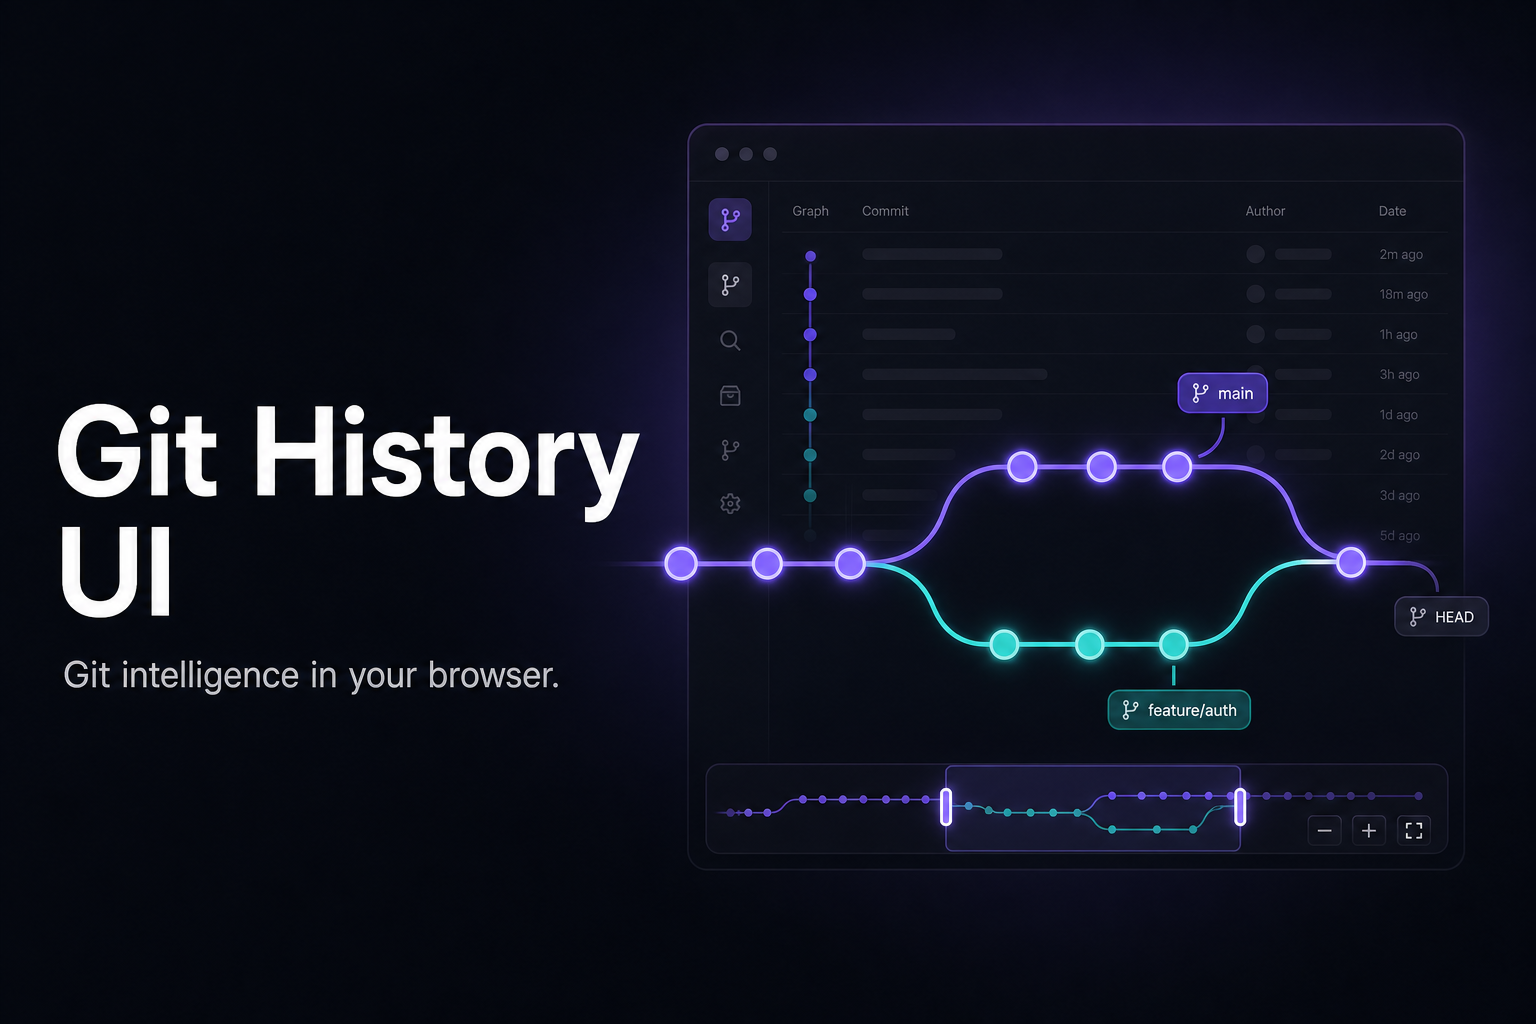
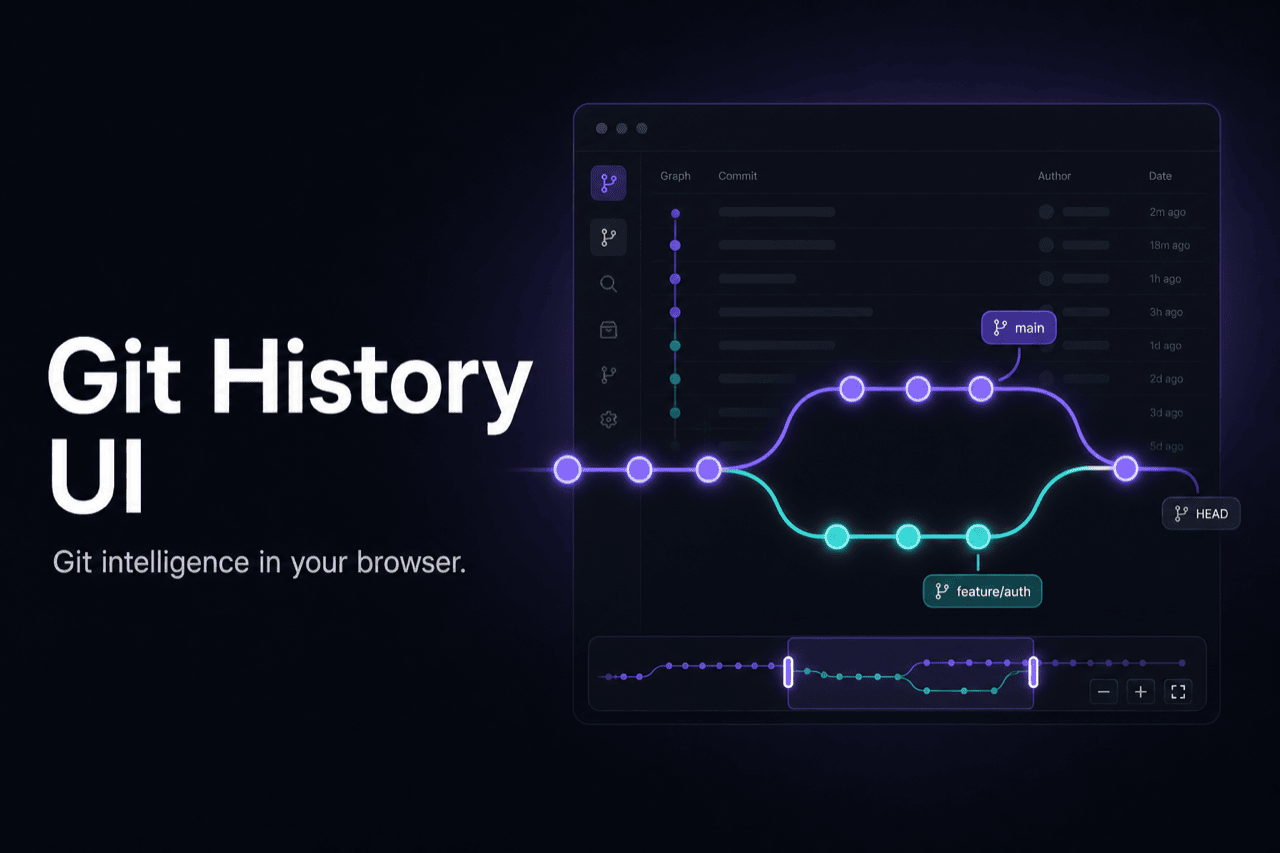
feat: make the project discoverable from the tool itself
The project had 4k monthly npm downloads but 9 GitHub visitors in 14 days,
because nothing in the running app or CLI ever pointed back at the repository
and the only star prompt sat at the bottom of a 420-line README.

Add a repository link to the app toolbar, a line to the CLI startup tips, and
attribution to the terminal Git Wrapped card so people who already use the tool
can find where it lives.

Also reposition the README around what the tool is and why it differs from
git log, gitk, and GitLens, restore the absolute preview image URL so it renders
on npm (the published tarball ships no images), shrink both images from ~1.5 MB
to under 350 KB, and align the stale v5.4.0/v5.4.1 references with the release.

diff --git a/frontend/src/app/components/toolbar/toolbar.component.ts b/frontend/src/app/components/toolbar/toolbar.component.ts
@@ -207,6 +207,22 @@ import { UiStateService } from '../../services/ui-state.service';
             <path fill="currentColor" d="M21 12.79A9 9 0 1 1 11.21 3 7 7 0 0 0 21 12.79Z" />
           </svg>
         </button>
+        <a
+          class="btn btn-ghost star-link"
+          href="https://github.com/beingmartinbmc/git-history-ui"
+          target="_blank"
+          rel="noopener noreferrer"
+          title="Star git-history-ui on GitHub"
+          aria-label="Star git-history-ui on GitHub"
+        >
+          <svg viewBox="0 0 24 24" width="16" height="16" aria-hidden="true">
+            <path
+              fill="currentColor"
+              d="M12 .5C5.73.5.5 5.73.5 12c0 5.08 3.29 9.39 7.86 10.91.58.11.79-.25.79-.56v-1.94c-3.2.7-3.88-1.54-3.88-1.54-.52-1.33-1.28-1.68-1.28-1.68-1.05-.72.08-.7.08-.7 1.16.08 1.77 1.19 1.77 1.19 1.03 1.77 2.7 1.26 3.36.96.1-.75.4-1.26.73-1.55-2.55-.29-5.24-1.28-5.24-5.69 0-1.26.45-2.29 1.19-3.1-.12-.29-.51-1.46.11-3.05 0 0 .97-.31 3.18 1.18a11.1 11.1 0 0 1 5.8 0c2.2-1.49 3.17-1.18 3.17-1.18.63 1.59.24 2.76.12 3.05.74.81 1.19 1.84 1.19 3.1 0 4.42-2.7 5.39-5.26 5.68.42.36.79 1.06.79 2.14v3.17c0 .31.21.68.8.56A11.5 11.5 0 0 0 23.5 12C23.5 5.73 18.27.5 12 .5Z"
+            />
+          </svg>
+          Star
+        </a>
       </div>
     </header>
 
@@ -424,6 +440,13 @@ import { UiStateService } from '../../services/ui-state.service';
         text-transform: uppercase;
         padding: 0.35rem 0.6rem;
       }
+      .star-link {
+        font-size: 11px;
+        letter-spacing: 0.04em;
+        text-transform: uppercase;
+        padding: 0.35rem 0.6rem;
+        text-decoration: none;
+      }
       .clear-filters {
         font-size: 11px;
         color: var(--danger);
@@ -504,6 +527,9 @@ import { UiStateService } from '../../services/ui-state.service';
           order: 5;
         }
         .filters .select {
+          display: none;
+        }
+        .star-link {
           display: none;
         }
       }

diff --git a/src/cli.ts b/src/cli.ts
@@ -16,6 +16,8 @@ const pkg = JSON.parse(readFileSync(join(__dirname, '..', 'package.json'), 'utf8
   version: string;
 };
 
+const REPO_URL = 'https://github.com/beingmartinbmc/git-history-ui';
+
 const program = new Command();
 
 program
@@ -450,7 +452,8 @@ async function main(overrides: Partial<MainOptions> = {}): Promise<void> {
           '  • Press Ctrl+C to stop the server\n' +
           (options.savePreset
             ? `  • Resume this view next time with: git-history-ui --preset ${options.savePreset}\n`
-            : '')
+            : '') +
+          `  • Star it: ${REPO_URL}\n`
       )
     );
   } catch (err) {
@@ -513,5 +516,6 @@ function printWrapped(s: import('./backend/wrapped').WrappedStats): void {
   }
   console.log(line);
   console.log(chalk.gray('  Share it: npx git-history-ui  →  Insights → Wrapped → Export card'));
+  console.log(chalk.gray(`  Made with git-history-ui — ${REPO_URL}`));
   console.log('');
 }

diff --git a/frontend/src/app/components/toolbar/toolbar.component.spec.ts b/frontend/src/app/components/toolbar/toolbar.component.spec.ts
@@ -87,4 +87,16 @@ describe('ToolbarComponent', () => {
 
     expect(state.filters().search).toBeUndefined();
   }));
+
+  it('offers a safely-targeted repository link so the project stays discoverable', () => {
+    fixture.detectChanges();
+
+    const link = fixture.nativeElement.querySelector(
+      'a[href="https://github.com/beingmartinbmc/git-history-ui"]',
+    ) as HTMLAnchorElement | null;
+
+    expect(link).withContext('toolbar must link back to the repository').not.toBeNull();
+    expect(link?.target).toBe('_blank');
+    expect(link?.rel).toContain('noopener');
+  });
 });

diff --git a/apps/chrome-extension/popup.html b/apps/chrome-extension/popup.html
@@ -76,7 +76,7 @@
         >Protocol help</a
       >
       <a
-        href="https://github.com/beingmartinbmc/git-history-ui/blob/v5.4.0/apps/chrome-extension/PRIVACY.md"
+        href="https://github.com/beingmartinbmc/git-history-ui/blob/v5.5.0/apps/chrome-extension/PRIVACY.md"
         target="_blank"
         rel="noopener noreferrer"
         >Privacy</a

diff --git a/README.md b/README.md
@@ -6,22 +6,39 @@
 [![install size](https://packagephobia.com/badge?p=git-history-ui)](https://packagephobia.com/result?p=git-history-ui)
 [![GitHub stars](https://img.shields.io/github/stars/beingmartinbmc/git-history-ui.svg)](https://github.com/beingmartinbmc/git-history-ui)
 
-**Investigate Git history locally, share the result, and automate PR impact.**
-
-```bash
-npx git-history-ui@latest demo
-```
-
-The demo creates a stable, network-free repository in your OS temporary directory.
-
-![Git History UI showing the commit graph, commit list, and split diff viewer](docs/images/preview.png)
-
-To inspect a real project instead:
+**A full Git history explorer in your browser. One command, nothing installed,
+nothing uploaded.**
 
 ```bash
 cd /path/to/your/repository
 npx git-history-ui@latest
 ```
+
+That opens a browser UI with the commit graph, searchable history, side-by-side
+diffs, blame, and per-file history for the repository you are standing in. Press
+Ctrl+C and it's gone — no global install, no account, no cloud service.
+
+![Git History UI showing the commit graph, commit list, and split diff viewer](https://raw.githubusercontent.com/beingmartinbmc/git-history-ui/main/docs/images/preview.png)
+
+Want to look around before pointing it at your own code?
+
+```bash
+npx git-history-ui@latest demo
+```
+
+The demo builds a deterministic, network-free repository in your OS temporary
+directory.
+
+## Why not `git log`, gitk, or GitLens?
+
+- **No editor required.** It's a browser UI, so it behaves identically whether
+  you work in VS Code, JetBrains, Vim, or a terminal on a remote machine.
+- **Nothing to install.** A single `npx` invocation — no extension marketplace,
+  no sign-in, no telemetry, no server you don't run.
+- **It answers questions instead of just listing commits.** Pickaxe search
+  across all of history, work grouped by pull request, hotspots and churn,
+  dependency ripple for a single commit, and a shareable
+  [Git Wrapped](#git-wrapped) recap.
 
 ## Investigate → share → automate
 
@@ -318,7 +335,7 @@ steps:
   - uses: actions/checkout@v4
     with:
       fetch-depth: 0
-  - uses: beingmartinbmc/git-history-ui@v5.4.1
+  - uses: beingmartinbmc/git-history-ui@v5.5.0
     with:
       format: markdown
 ```

diff --git a/CHANGELOG.md b/CHANGELOG.md
@@ -6,6 +6,25 @@ this project adheres to [Semantic Versioning](https://semver.org/spec/v2.0.0.htm
 
 ## [Unreleased]
 
+## [5.5.0] - 2026-07-28
+
+### Added
+
+- A GitHub link in the app toolbar, a repository line in the CLI startup tips,
+  and attribution on the terminal Git Wrapped card, so the project is
+  discoverable from the tool itself rather than only from the README.
+
+### Changed
+
+- The README now leads with what the tool is and how it differs from `git log`,
+  gitk, and GitLens, instead of an abstract capability summary.
+- The README preview image is referenced by absolute URL again so it renders on
+  the npm landing page, where the published tarball carries no images.
+- The preview and banner images are resized to 1280px wide and quantized,
+  reducing each from roughly 1.5 MB to under 350 KB.
+- Version references in the README Action example, wiki pages, and Chrome
+  extension privacy link now match the released version.
+
 ## [5.4.2] - 2026-07-16
 
 ### Fixed

diff --git a/docs/wiki/Backend-API-Reference.md b/docs/wiki/Backend-API-Reference.md
@@ -1,6 +1,6 @@
 # Backend API Reference
 
-This page is a concise map for **v5.4.1**. See the
+This page is a concise map for **v5.5.0**. See the
 [canonical API reference](../API.md) for complete query parameters, response
 details, and limits; update that document first when routes change.
 

diff --git a/docs/wiki/Home.md b/docs/wiki/Home.md
@@ -40,7 +40,7 @@ diff/history data are sent to that provider.
 
 ## Version
 
-Current: **v5.4.1**
+Current: **v5.5.0**
 
 ## License
 
